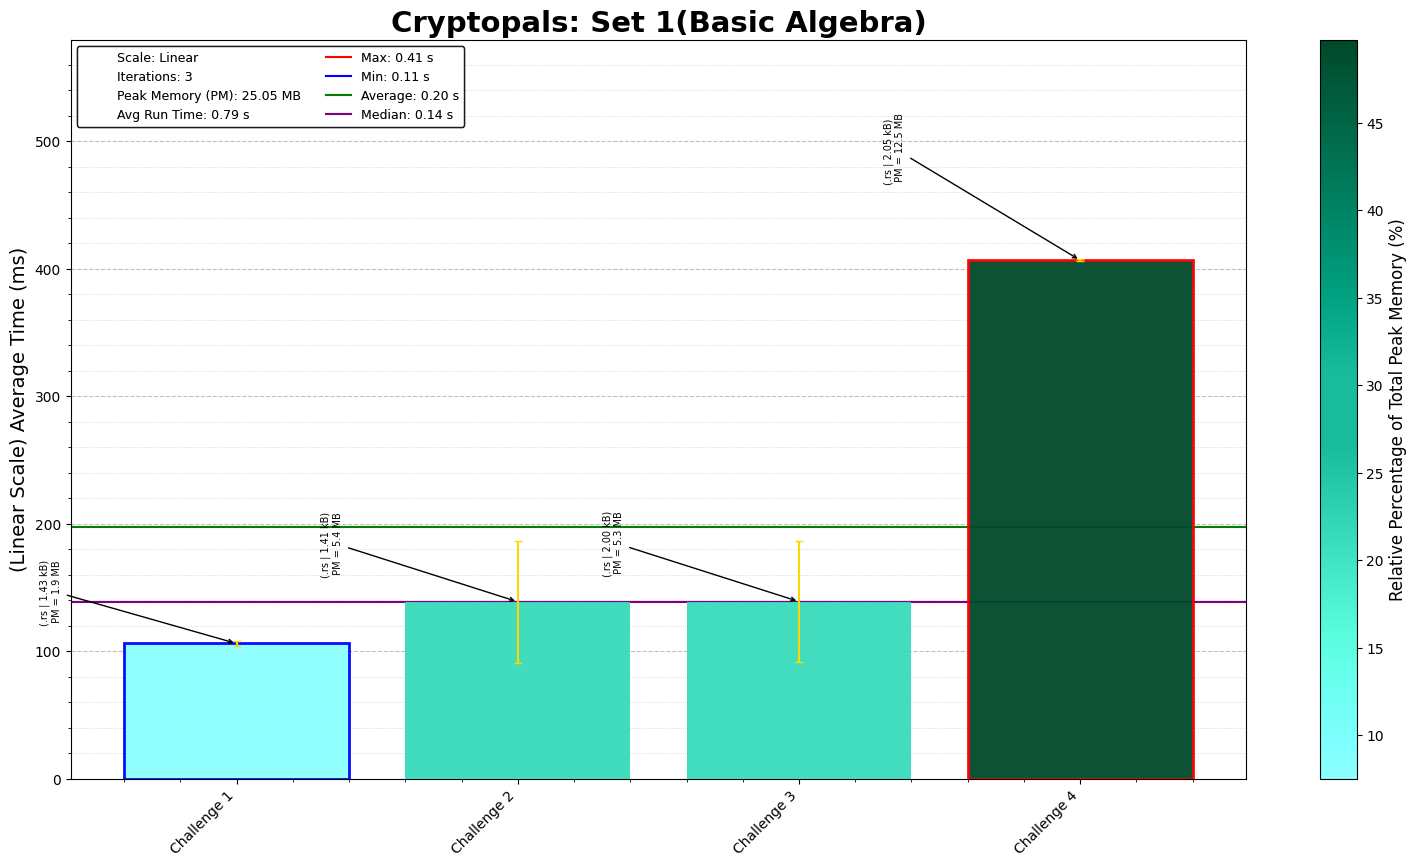
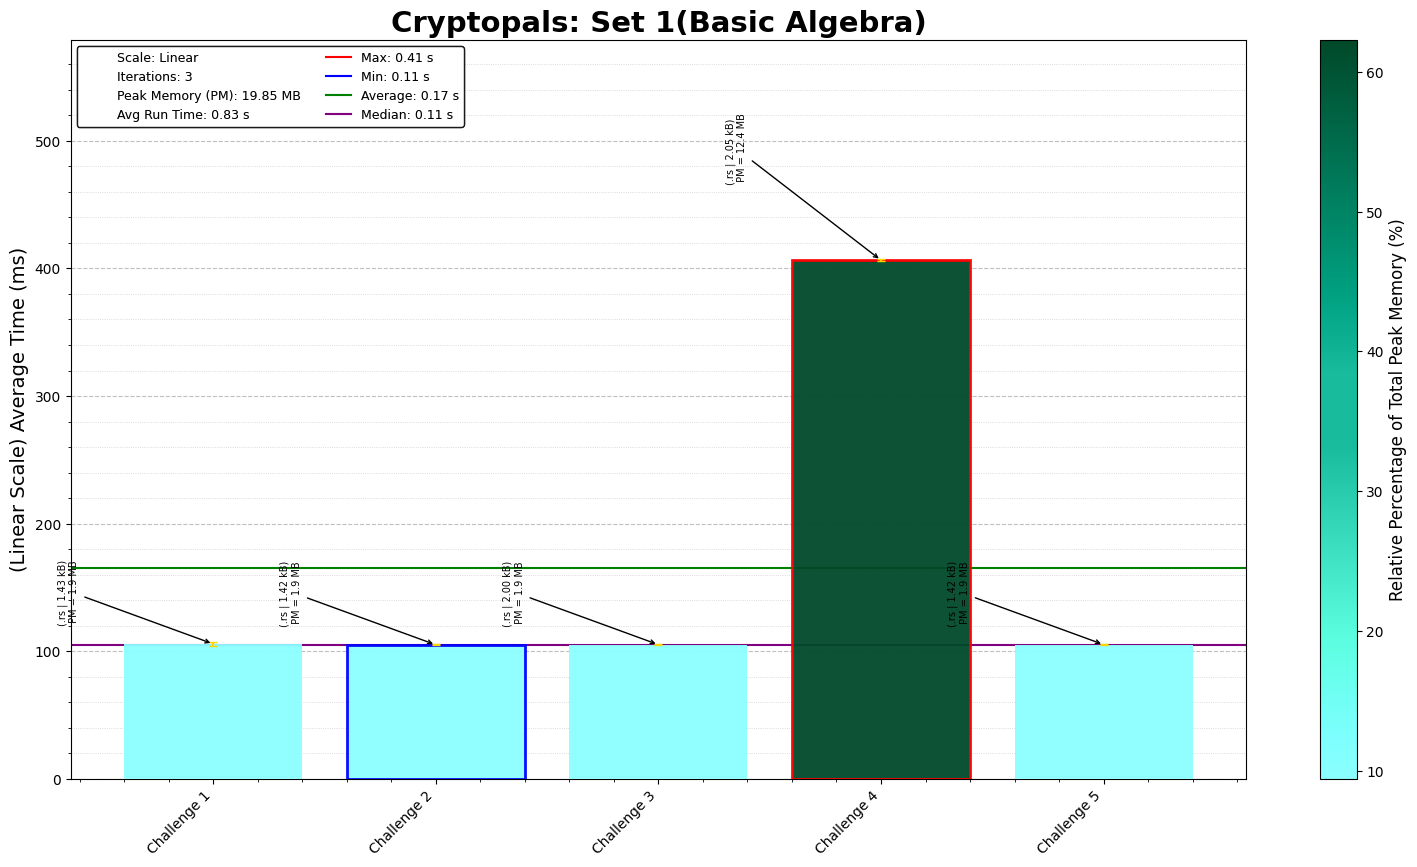
Cryptopals Set 1 Challenge 5: Repeating-key XOR

diff --git a/set_01/cryptopals_05.rs b/set_01/cryptopals_05.rs
@@ -1,0 +1,37 @@
+/* Cryptopals - Set 1, Challenge 5
+Solution Started: August 26, 2025
+Puzzle Link: https://cryptopals.com/sets/1/challenges/5
+Solution by: Abbas Moosajee
+Brief: [Implement repeating-key XOR] */
+
+use std::{env, io};
+use cryptopals::{select_input, string_to_bytes, bytes_to_hex, xor_bytes_repeating};
+// See the relevant functions in: cryptopals\src\basics\xor_bytes.rs
+
+fn main() -> io::Result<()> {
+    println!("Set 01, Challenge 05: Implement repeating-key XOR");
+
+    let default_input: &'static str = "Burning 'em, if you ain't quick and nimble\nI go crazy when I hear a cymbal^ICE";
+
+    // Get the first command-line argument
+    let args: Vec<String> = env::args().collect();
+    let parsed_args: Option<&str> = args.get(1).map(|s: &String| s.as_str());
+
+    let use_input: String = select_input(parsed_args, default_input);
+
+    // Split into the two hex strings
+    let parts: Vec<&str> = use_input.split('^').collect();
+    let main_str: &str = parts.get(0).unwrap_or(&"").trim();
+    let comp_str: &str = parts.get(1).unwrap_or(&"").trim();
+
+    // Convert string → bytes
+    let byte_list: Vec<u8> = string_to_bytes(main_str.to_string());
+    let comp_bytes: Vec<u8> = string_to_bytes(comp_str.to_string());
+
+    let xor_result: Vec<u8> = xor_bytes_repeating(&byte_list, &comp_bytes);
+
+    println!("String Input:{:?}", use_input);
+    println!("  XOR Result:{:?}", bytes_to_hex(&xor_result));
+
+    Ok(())
+}

diff --git a/set_01/test.py b/set_01/test.py
@@ -1,0 +1,34 @@
+from itertools import cycle, islice
+
+def _bytes_xor(a: bytes, b: bytes, quiet=True, check_lens=False) -> bytes:
+    if not quiet:
+        print(a, "⊕", b)
+    if check_lens and len(a) != len(b):
+        raise ValueError("bytestring lengths aren't equal")
+    return bytes(byte_1 ^ byte_2 for byte_1, byte_2 in zip(a, b))
+
+
+def bytes_xor(*args: bytes, quiet=True, check_lens=False):
+    assert len(args) > 0
+    result = args[0]
+    for arg in args[1:]:
+        result = _bytes_xor(result, arg, quiet=quiet, check_lens=check_lens)
+    return result
+
+
+def repeating_key_xor(key: bytes, plaintext: bytes) -> bytes:
+    full_key = bytes(islice(cycle(key), len(plaintext)))
+    return bytes_xor(full_key, plaintext)
+
+
+if __name__ == "__main__":
+    plaintext = (b"Burning 'em, if you ain't quick and nimble\nI go crazy when I hear a cymbal")
[1 lines of base64/hex data omitted]
+    ciphertext = repeating_key_xor(b"ICE", plaintext)
+
+    print(f"{ciphertext.hex()=}")
+
+    if ciphertext == ct_expected:
+        print("It worked!")
+    else:
+        exit("repeating-key xor didn't work (this should never happen!)")

diff --git a/src/lib.rs b/src/lib.rs
@@ -2,12 +2,12 @@ pub const ALL_CHARS: &str = "ABCDEFGHIJKLMNOPQRSTUVWXYZabcdefghijklmnopqrstuvwxy
 
 pub mod basics {
     pub mod hex_base64;
-    pub mod fixed_xor;
-    pub mod single_byte_xor_cipher;
+    pub mod xor_bytes;
+    pub mod xor_cipher;
 }
 pub mod utils;
-pub use utils::{select_input, run_python};
+pub use utils::{select_input, run_python, string_to_bytes};
 
 pub use basics::hex_base64::{hex_to_base64, hex_to_bytes, bytes_to_base64};
-pub use basics::fixed_xor::{bytes_to_hex, xor_bytes};
-pub use basics::single_byte_xor_cipher::{test_xor_key, english_frequencies, chi_square};
+pub use basics::xor_bytes::{bytes_to_hex, xor_bytes_fixed, xor_bytes_repeating};
+pub use basics::xor_cipher::{test_xor_key, english_frequencies, chi_square};

diff --git a/src/basics/xor_bytes.rs b/src/basics/xor_bytes.rs
@@ -1,9 +1,21 @@
 ///Function for XOR comparisont of two sets of bytes, `a ^ b`
-pub fn xor_bytes(a: &[u8], b: &[u8]) -> Vec<u8> {
+pub fn xor_bytes_fixed(a: &[u8], b: &[u8]) -> Vec<u8> {
     a.iter()
         .zip(b.iter())
         .map(|(x, y)| x ^ y)
         .collect()
+}
+
+pub fn xor_bytes_repeating(byte_list: &[u8], comp_bytes: &[u8]) -> Vec<u8> {
+    let mut result = Vec::with_capacity(byte_list.len());
+
+    for (byte_idx, &byte_val) in byte_list.iter().enumerate() {
+        let comp_byte = comp_bytes[byte_idx % comp_bytes.len()];
+        let xor_byte = byte_val ^ comp_byte;
+        result.push(xor_byte);
+    }
+
+    result
 }
 
 /// Converts a byte slice to a lowercase hexadecimal string.

diff --git a/set_01/cryptopals_02.rs b/set_01/cryptopals_02.rs
@@ -5,8 +5,8 @@ Solution by: Abbas Moosajee
 Brief: [Fixed XOR] */
 
 use std::{env, io};
-use cryptopals::{select_input, hex_to_bytes, bytes_to_hex, xor_bytes};
-// See the relevant functions in: cryptopals\src\basics\fixed_xor.rs
+use cryptopals::{select_input, hex_to_bytes, bytes_to_hex, xor_bytes_fixed};
+// See the relevant functions in: cryptopals\src\basics\xor_bytes.rs
 
 fn main() -> io::Result<()> {
 
@@ -29,7 +29,7 @@ fn main() -> io::Result<()> {
     let hex_2: Vec<u8> = hex_to_bytes(inp_2);
 
     // XOR
-    let xor_out: Vec<u8> = xor_bytes(&hex_1, &hex_2);
+    let xor_out: Vec<u8> = xor_bytes_fixed(&hex_1, &hex_2);
 
     // Print results
     println!("XOR Input: {} ^ {}", inp_1, inp_2);

diff --git a/src/basics/xor_cipher.rs b/src/basics/xor_cipher.rs
@@ -1,4 +1,4 @@
-use crate::basics::fixed_xor::xor_bytes;
+use crate::basics::xor_bytes::xor_bytes_fixed;
 use std::collections::HashMap;
 
 /// XOR a byte slice with a single-character key (repeated).
@@ -12,7 +12,7 @@ pub fn test_xor_key(bytes_data: &[u8], key_str: &str) -> String {
         .collect();
 
     // Use xor_bytes
-    let xor_out = xor_bytes(bytes_data, &key_stream);
+    let xor_out = xor_bytes_fixed(bytes_data, &key_stream);
 
     // Convert back to lossy UTF-8 string (like Python `chr`)
     let test_cipher = String::from_utf8_lossy(&xor_out).to_string();

diff --git a/src/utils.rs b/src/utils.rs
@@ -3,6 +3,11 @@ use std::path::PathBuf;
 use std::env;
 use std::fs;
 
+/// Convert string to a list of bytes
+pub fn string_to_bytes(s: String) -> Vec<u8> {
+    s.into_bytes()
+}
+
 /// Select input between `txt_file`, `input_arg` and `default`, and converts it to string
 pub fn select_input(input_arg: Option<&str>, default: &str) -> String {
     let hex_string = match input_arg {

diff --git a/set_01/cryptopals_03.rs b/set_01/cryptopals_03.rs
@@ -7,7 +7,7 @@ Brief: [Single-byte XOR Cipher] */
 use std::{env, io};
 use std::collections::HashMap;
 use cryptopals::{select_input, hex_to_bytes, ALL_CHARS, test_xor_key, chi_square};
-// See the relevant functions in: cryptopals\src\basics\fixed_xor.rs
+// See the relevant functions in: cryptopals\src\basics\xor_cipher.rs
 
 fn main() -> io::Result<()> {
 

diff --git a/set_01/run_set_01.py b/set_01/run_set_01.py
@@ -21,8 +21,8 @@ if __name__ == "__main__":
 
     results = analyzer.analyze(
         problems_to_run= PROBLEMS_TO_RUN,  # Problems 1-25
-        iterations=1,
-        save_results=False,
+        iterations=3,
+        save_results=True,
         custom_dir= selected_dir / "analysis"
     )
 
